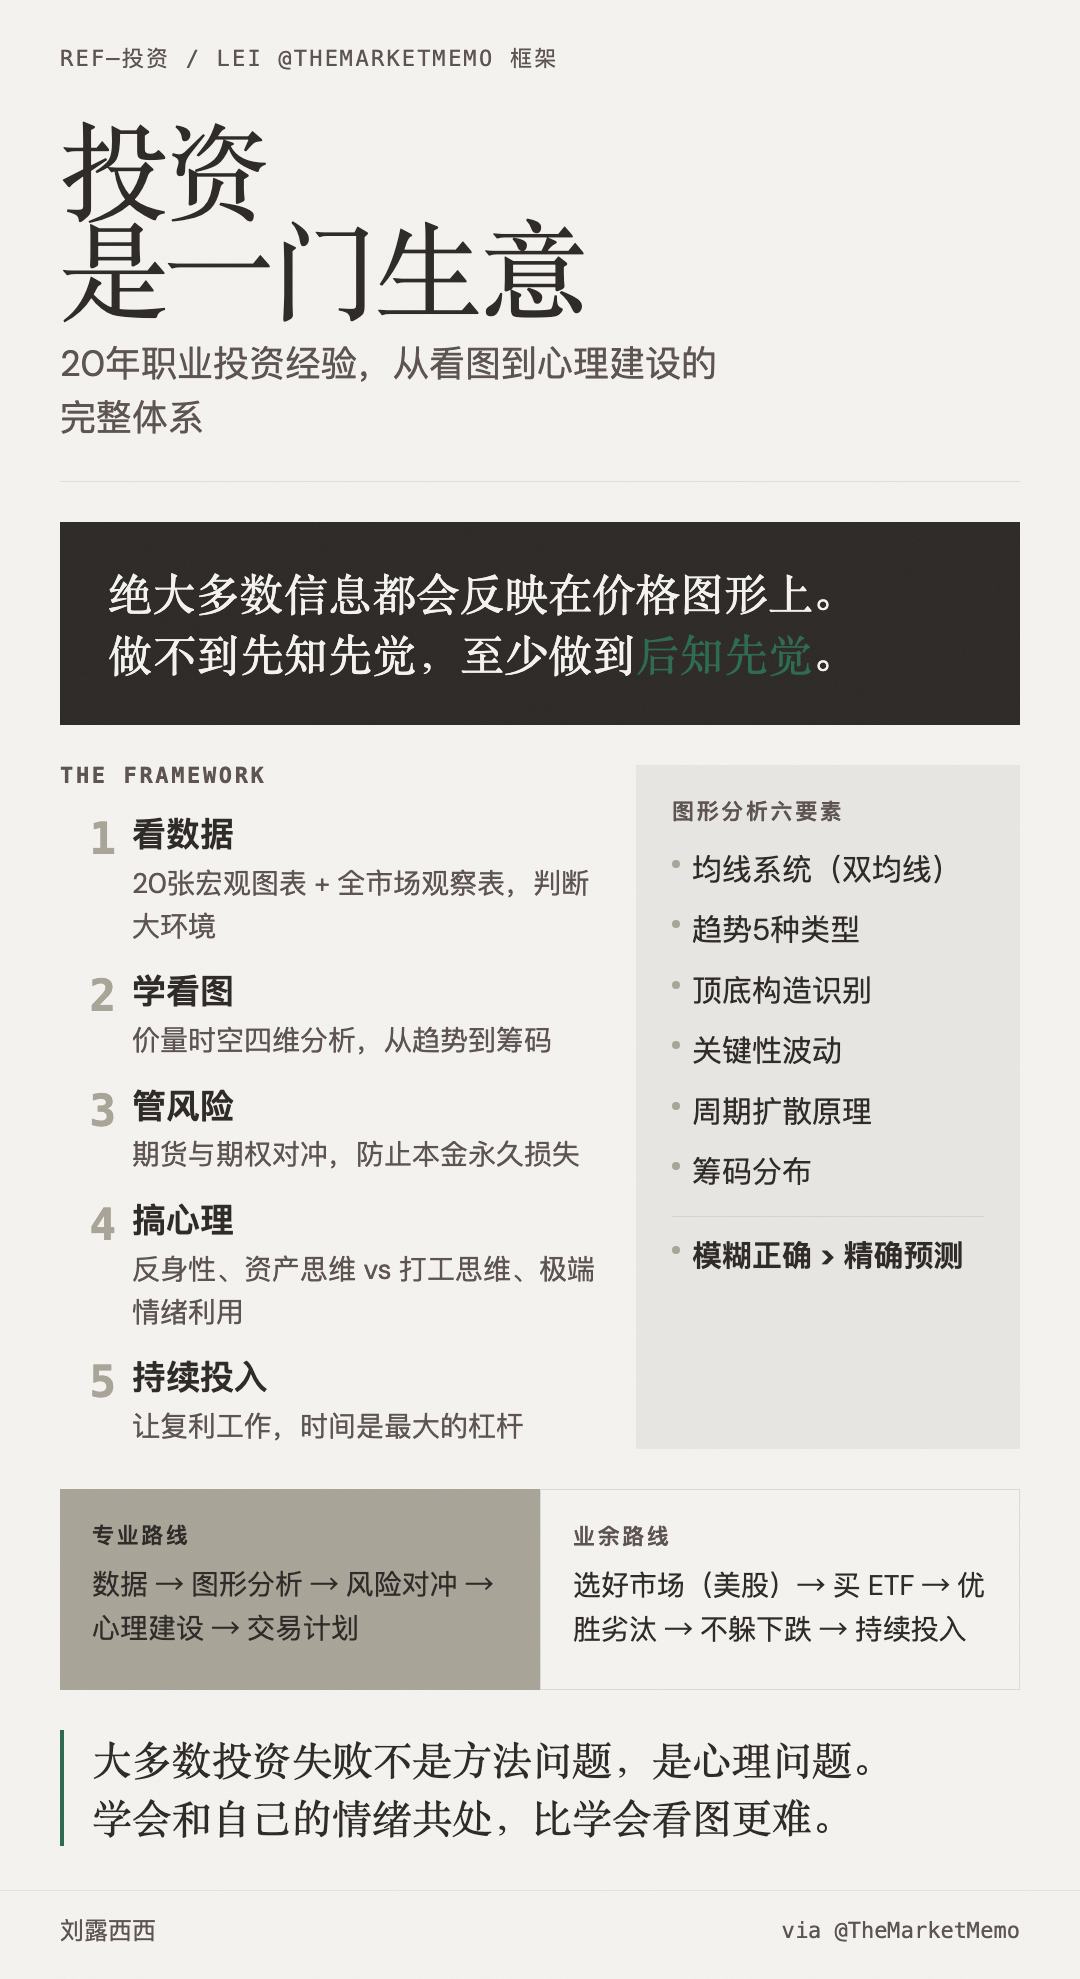
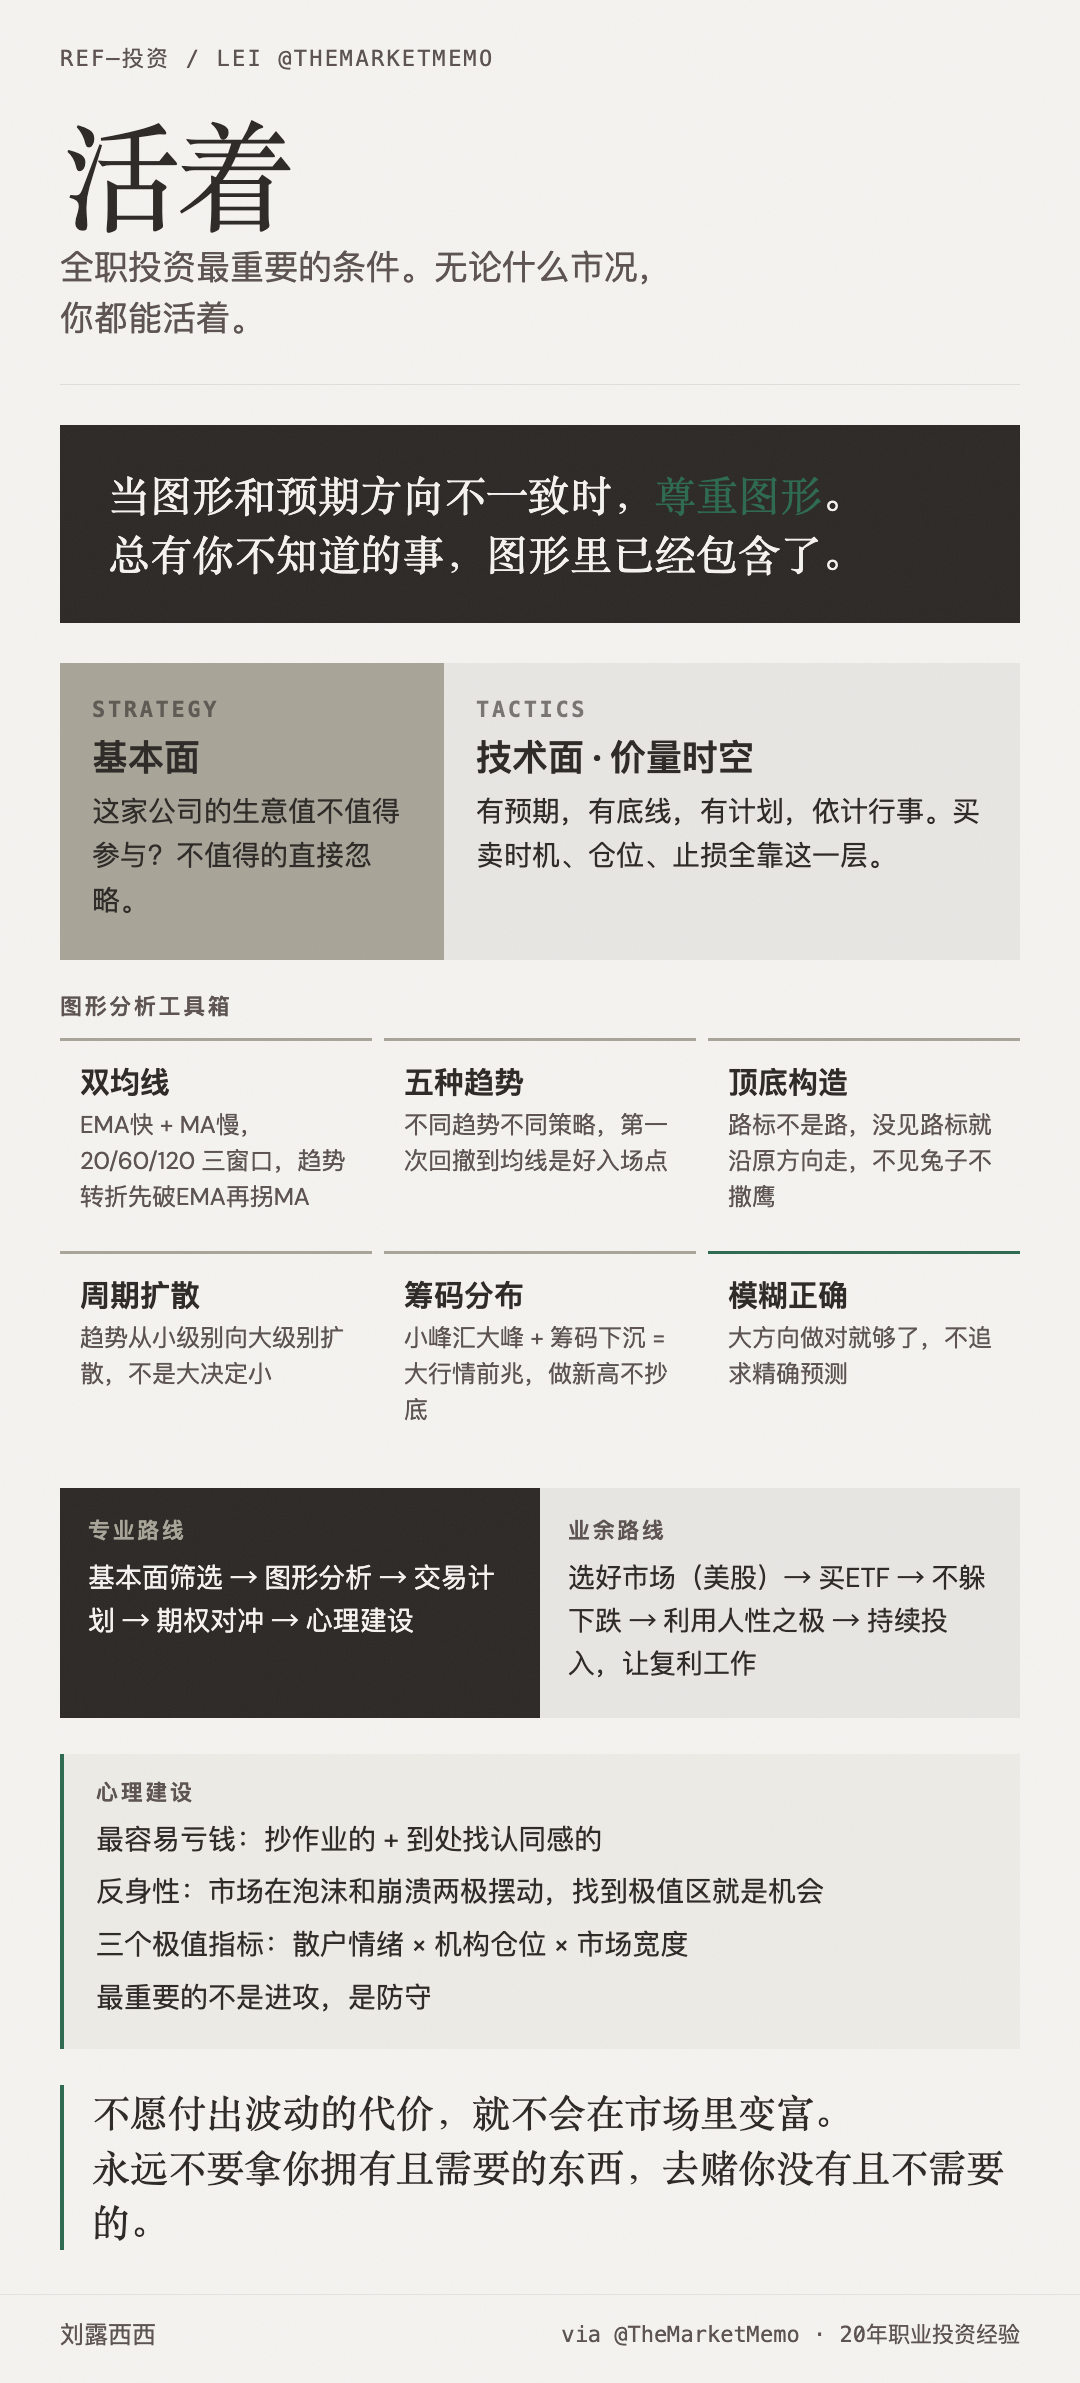
LEI框架: 去AI味 + 信息图重做

diff --git a/content/posts/lei-investment-framework/index.md b/content/posts/lei-investment-framework/index.md
@@ -5,93 +5,87 @@ draft: false
 tags: ["投资", "交易", "框架"]
 ---
 
-> 来源：[@TheMarketMemo（LEI）](https://x.com/TheMarketMemo/status/2035415988183957625)，以下内容基于他公开分享的 20+ 个视频的完整提炼。
+> 来源：[@TheMarketMemo（LEI）](https://x.com/TheMarketMemo/status/2035415988183957625)，基于他公开分享的 20+ 个视频的完整提炼。
 
 ---
 
-## 起点：投资是一门生意
+## 投资是一门生意
 
-LEI 把全职投资比作经营一门生意。他自己同时做好几个"生意"——有的做长期持有，有的做交易，相互配合、相互对冲。他说全职投资最重要的充分必要条件就一个字：**活着**。无论什么市况，你都能活着。
+LEI 同时做好几个"生意"——有的做长期持有，有的做交易，相互配合、相互对冲。他说全职投资最重要的条件就一个：活着。无论什么市况，你都能活着。
 
-他把投资比成种庄稼：春耕秋收，有季节。你不能今天播种明天就要果实。同时要接受天有不测风云——美股每隔两年就会来一次崩盘，这再正常不过。最好的办法不是躲避，而是不要孤注一掷。
+投资像种庄稼。春耕秋收，有季节。你不能今天播种明天要果实。美股每隔两年就来一次崩盘，再正常不过。最好的办法不是躲，是不要孤注一掷。
 
 ---
 
 ## 怎么分析一只股票
 
-LEI 的分析框架分两层：
+两层框架：
 
-**第一层：基本面框架（战略层）** — 解决"值不值得参与"的问题。一家公司的生意模式有没有问题？不值得投资的，直接忽略，另找。
+基本面是战略层——这家公司的生意值不值得参与？不值得的直接忽略。技术面是战术层——具体的买卖时机、仓位、计划。
 
-**第二层：技术框架（战术层）** — 解决"怎么打赢"的问题。具体的买卖时机、仓位、计划。
+他讲过一个亲身教训：曾经对一只股票的基本面非常了解，坚信自己没错、市场错了，硬扛了很久还逢低加仓。结果连续两个季度财报证明他看错了，管理层出了严重决策失误，而这些信息他无法从公开渠道及时拿到。惨败出局，那只股票至今没涨回他割肉的位置。
 
-他分享了一个痛苦的亲身经历：曾经对一只股票的基本面非常了解，坚信自己没错、市场错了，硬扛了很长时间还逢低加仓。结果连续两个季度财报证明他看错了，管理层出了严重决策失误，而这些信息他无法从公开渠道及时获得。最终惨败出局，那只股票至今没涨回他割肉的位置。
+这件事之后他的原则：当图形和预期方向不一致时，尊重图形。总有你不知道的事，图形里已经包含了。
 
-这件事给他的最大教训：**当图形与预期方向不一致时，尊重图形。因为总有你不知道的事，而图形里已经包含了那些信息。**
-
-他的核心原则：任何一笔交易，有预期、有底线、有计划，最重要的是依计行事。
+任何一笔交易：有预期，有底线，有计划，依计行事。
 
 ---
 
 ## 图形分析：价量时空
 
-LEI 认为绝大多数信息都会反映在价格图形上。做不到先知先觉，至少做到后知先觉——学会看图。
+他认为绝大多数信息都反映在价格图形上。做不到先知先觉，至少后知先觉——学会看图。
 
-他的图形分析围绕四个维度：**价格、成交量、时间、空间**。
+四个维度：价格、成交量、时间、空间。
 
-具体工具：
+**双均线系统** — EMA（快）和 MA（慢）两条线配合。两线同向上行是牛市，同向下行是熊市。趋势转折一定先破 EMA，再引导 MA 拐头。他用 20、60、120 三个时间窗口。大牛市的启动信号：20天 EMA 先拐头向上 → MA20 跟上 → 60 均线组跟上 → 120 均线组跟上。
 
-**双均线系统** — 他用 EMA（指数移动平均线）和 MA（简单移动平均线）两条线配合。EMA 反应快，MA 反应慢。两线同向上行就是牛市，同向下行就是熊市。趋势转折一定先破 EMA，再引导 MA 拐头。他习惯用 20、60、120 三个时间窗口观察。一波大牛市的启动信号是：20天 EMA 先拐头向上 → 带动 MA20 → 带动 60 均线组 → 带动 120 均线组。
+**五种趋势** — 不同趋势对应不同策略。多头趋势中，第一次回撤到 20、60、120 均线附近都是好入场点。判断工具是"抵扣价"——当前价高于均线抵扣价，均线就会继续上行。
 
-**五种趋势类型** — 不同类型的趋势对应不同策略。多头趋势中，第一次回撤到 20 均线、60 均线、120 均线附近，都是好的入场点。关键判断工具是"抵扣价"——只要当前价格高于对应均线的抵扣价，均线就会继续上行。
+**顶底构造** — 没见到顶底构造就不会见顶见底。这些构造是路标，不是路。出现路标不等于马上转向，但没出现就沿原方向走。做交易像猎手，不见兔子不撒鹰。
 
-**顶底构造** — 没有见到顶底构造就不会见顶见底。这些构造是路标，不是路本身。出现路标不等于马上转向，但不出现路标就可以沿原方向行驶。做交易像猎手：不见兔子不撒鹰。
+**周期扩散** — 他不同意"大周期决定小周期"。他认为趋势从小级别向大级别扩散——大周期的变化都是由小周期引起的。
 
-**关键性波动** — 不是所有波动都值得关注，只有一种值得高度重视（他在专门视频中有详解）。
+**筹码分布** — 大行情发动前两个信号：小山峰汇聚成大山峰，筹码逐渐下沉。牛市是筹码在股价下方（下山，轻松），熊市在上方（上山，辛苦）。所以他很少抄底，更喜欢做接近新高的股票。
 
-**周期扩散** — LEI 不同意传统技术分析"大周期决定小周期"的说法。他认为趋势是从小级别向大级别逐步扩散的——任何大周期的趋势变化，都是由小周期引起的。
-
-**筹码分布** — 大行情发动前有两个信号：众多小山峰汇聚成少数大山峰，筹码逐渐下沉到下方。牛市是筹码在股价下方（下山，轻松），熊市是筹码在股价上方（上山，辛苦）。他很少抄底，更喜欢做接近新高或连续创新高的股票。
-
-**模糊正确** — 不追求精确预测。他用 TSLA、AAPL、GOOGL 做了完整的实战推演，核心思想是：大方向上做对就够了，精确的时点和价格没那么重要。
+**模糊正确** — 不追求精确预测。他用 TSLA、AAPL、GOOGL 做过完整实战推演，核心：大方向做对就够了。
 
 ---
 
 ## 风险对冲
 
-任何分析方法和交易策略都有弱点。LEI 明确说专业投资者必须了解期货和期权的对冲用法——不是为了赚更多，是为了在极端情况下防止本金永久损失。
+任何分析方法都有弱点。专业投资者必须了解期货和期权的对冲——不是为了赚更多，是极端情况下防止本金永久损失。
 
 ---
 
 ## 业余投资者的路径
 
-LEI 说如果你不走专业路线，不需要懂那么多也能赚钱。前提是"在金矿里淘金，然后坚持投入，让复利工作"。
+不走专业路线也能赚钱，前提是在金矿里淘金，然后坚持投入，让复利工作。
 
-**选好市场** — 他认为美股是最容易赚到钱的市场。原因是美股有持续的外部资金流入，加上内部回购造成的供不应求结构。只要这两个因素不变，美股长期牛市就不会变。
+选好市场。他认为美股最容易赚钱——持续的外部资金流入加上内部回购，供不应求。这两个结构不变，长期牛市就不变。
 
-**优胜劣汰机制** — 投资组合要有淘汰机制，不是买了就不动。
+投资组合要有淘汰机制，不是买了就不动。
 
-**不要躲避下跌** — 躲避下跌也会错过上涨，而错过上涨的代价远大于承受下跌。对绝大多数普通投资者，不择时、长期持有才是最容易赚到钱的方式。
+不要躲下跌。躲下跌也会错过上涨，错过上涨的代价远大于承受下跌。对大多数人来说，不择时、长期持有最容易赚钱。
 
-**利用人性之极** — 索罗斯的反身性：市场不理性，总是在泡沫和崩溃两极之间摆动。极端恐慌时不能跟着恐慌，极端疯狂时不能跟着疯狂。他用三个指标找"人性之极"：散户情绪指标、机构投资者仓位、市场宽度——三者同时到达极值区时，就是最好的交易机会。
+利用人性之极。索罗斯的反身性：市场在泡沫和崩溃两极之间摆动。LEI 用三个指标找极值区：散户情绪、机构仓位、市场宽度。三者同时到极端时，就是最好的机会。
 
-**长期持续投入** — 他自己的 Hi5 组合用五只 ETF 做定额定投：VTI（美股全市场）为核心，每年 Rebalance 一次，每月增加投入。从 50 万加元起步，10 个月增长到 70 万。以 10% 复合回报率计算，30 年后接近 900 万加元。
+他自己的 Hi5 组合：五只 ETF，VTI 为核心，每年 Rebalance 一次，每月加投入。50 万加元起步，10 个月到 70 万。10% 复合回报率算，30 年接近 900 万。
 
-**投资可以很简单** — ETF 是最实用的载体。他整理了三张 ETF 观察表：权益类（美股/国际/新兴市场/房地产）、结构类（宽基/因子/主题/AI策略）、美股细分行业。
+ETF 是最实用的载体。他整理了三张观察表：权益类、结构类、美股细分行业。
 
 ---
 
 ## 心理建设
 
-LEI 说很多时候投资失败不是方法问题，是心理问题。
+很多投资失败不是方法问题，是心理问题。
 
-**反身性** — 索罗斯认为市场信息本身不完备，参与者的认知和偏见会反过来影响市场，形成正反馈循环。价格不会在平衡点停下来，总是朝两极运动。LEI 说他的很多交易理念来自索罗斯的哲学。
+索罗斯的反身性：市场信息不完备，参与者的认知和偏见反过来影响市场，形成正反馈循环。价格不会在平衡点停下来，总是往两极跑。LEI 说他的交易理念大量来自索罗斯。
 
-**最容易亏钱的两类人** — 第一类：自认为什么都不懂，一门心思抄作业，对了不知道为什么，错了也不知道为什么。第二类：有点想法但不自信，到处找认同感，赚了是自己厉害，亏了怪别人。LEI 说一定要有自己的逻辑和看法，刚开始不成熟没关系，每一次成功失败都在完善你的逻辑，积累到一定程度会爆发。
+最容易亏钱的两类人。一类什么都不懂就抄作业，对了不知道为什么，错了也不知道。另一类有想法但不自信，到处找认同感，赚了归功自己，亏了怪别人。LEI 的建议：一定要有自己的逻辑，刚开始不成熟没关系，每次成败都在完善你的系统，积累够了会爆发。
 
-**投资最重要的事** — 独立思考；买好生意；不惧波动、看懂波动；不在人人乐观时以为自己是神；不频繁操作；耐心等待机会；让时间成为朋友；最重要的不是进攻而是防守。
+几条他反复强调的：独立思考；买好生意；看懂波动而不是怕波动；不在人人乐观时以为自己是神；不频繁操作；耐心等机会；最重要的不是进攻是防守。
 
-**资产思维 vs 打工思维** — 根本区别不在技能，在思维模式。人类本能对悲观故事更感兴趣（损失厌恶），了解这一点后，在困境中加一点乐观就能保持清醒。不愿付出波动的代价，就不会在市场里变富。永远不要冒着失去你拥有且需要的东西，去追求你没有且不需要的东西。
+人天生对悲观故事更感兴趣，这是损失厌恶的本能。知道这一点之后，在困境中加一点乐观就够了。不愿付出波动的代价，就不会在市场里变富。永远不要拿你拥有且需要的东西，去赌你没有且不需要的东西。
 
 ---
 
